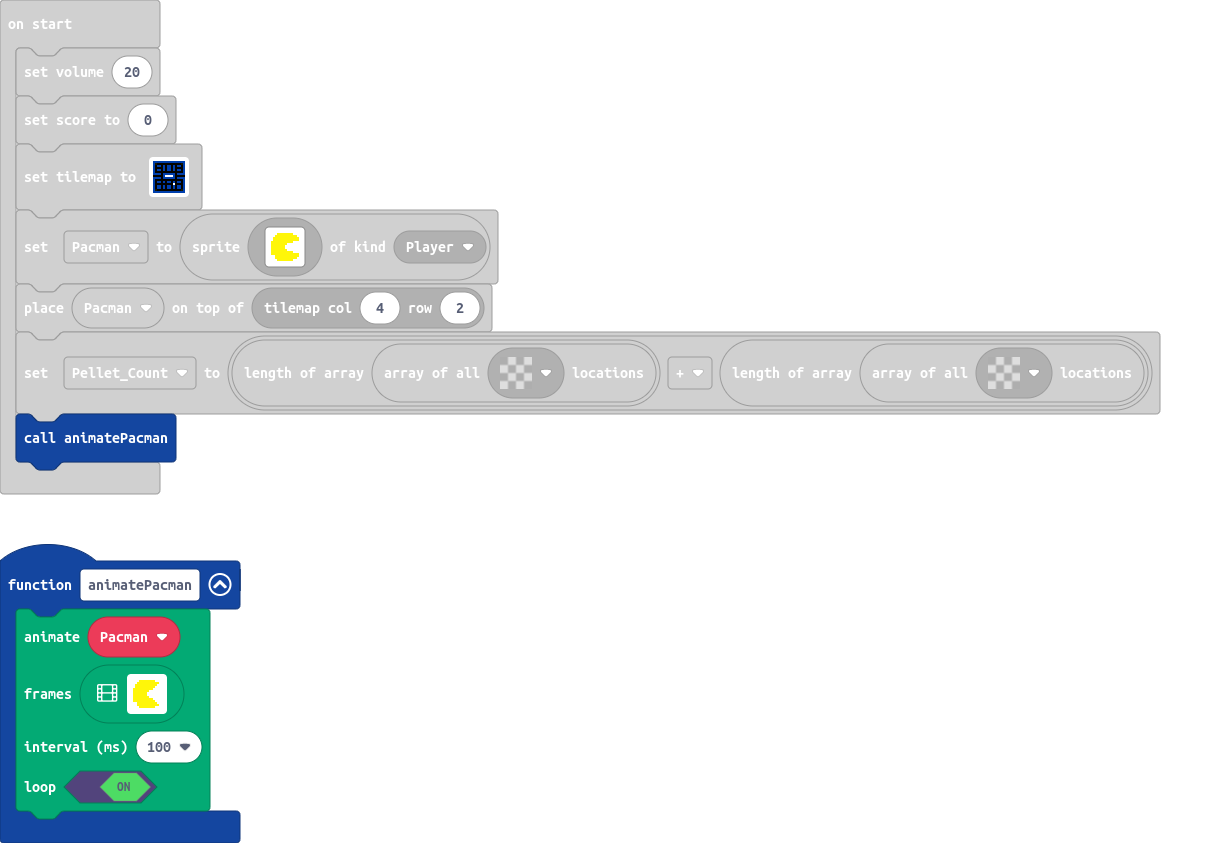
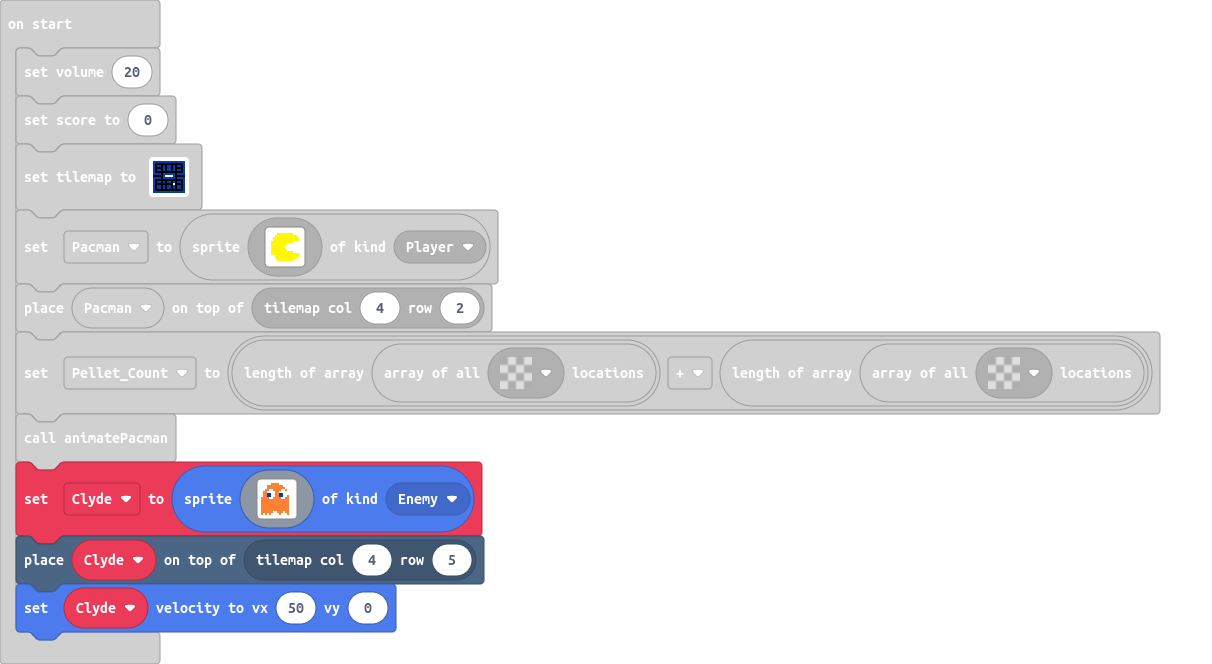
Added Clyde.

diff --git a/main.ts b/main.ts
@@ -222,6 +222,26 @@ Pacman = sprites.create(img`
 tiles.placeOnTile(Pacman, tiles.getTileLocation(4, 2))
 let Pellet_Count = tiles.getTilesByType(myTiles.tile2).length + tiles.getTilesByType(myTiles.tile3).length
 animatePacman()
+let Clyde = sprites.create(img`
+. . . . . 4 4 4 4 . . . . . . . 
+. . . 4 4 4 4 4 4 4 4 . . . . . 
+. . . 4 4 4 4 4 4 4 4 4 . . . . 
+. . 4 4 1 1 4 4 4 4 1 1 4 . . . 
+. 4 4 1 1 1 1 4 4 1 1 1 1 . . . 
+. 4 4 8 8 1 1 4 4 8 8 1 1 . . . 
+. 4 4 8 8 1 1 4 4 8 8 1 1 4 . . 
+4 4 4 4 1 1 4 4 4 4 1 1 4 4 . . 
+4 4 4 4 4 4 4 4 4 4 4 4 4 4 . . 
+4 4 4 4 4 4 4 4 4 4 4 4 4 4 . . 
+4 4 4 4 4 4 4 4 4 4 4 4 4 4 . . 
+4 4 4 4 4 4 4 4 4 4 4 4 4 4 . . 
+4 4 4 4 4 4 4 4 4 4 4 4 4 4 . . 
+4 4 4 4 4 4 4 4 4 4 4 4 4 4 . . 
+4 4 4 4 4 4 . . 4 4 4 . 4 4 . . 
+4 . 4 . 4 . . . . 4 . . . 4 . . 
+`, SpriteKind.Enemy)
+tiles.placeOnTile(Clyde, tiles.getTileLocation(4, 5))
+Clyde.setVelocity(50, 0)
 game.onUpdate(function () {
     controller.moveSprite(Pacman, 50, 50)
     scene.cameraFollowSprite(Pacman)
